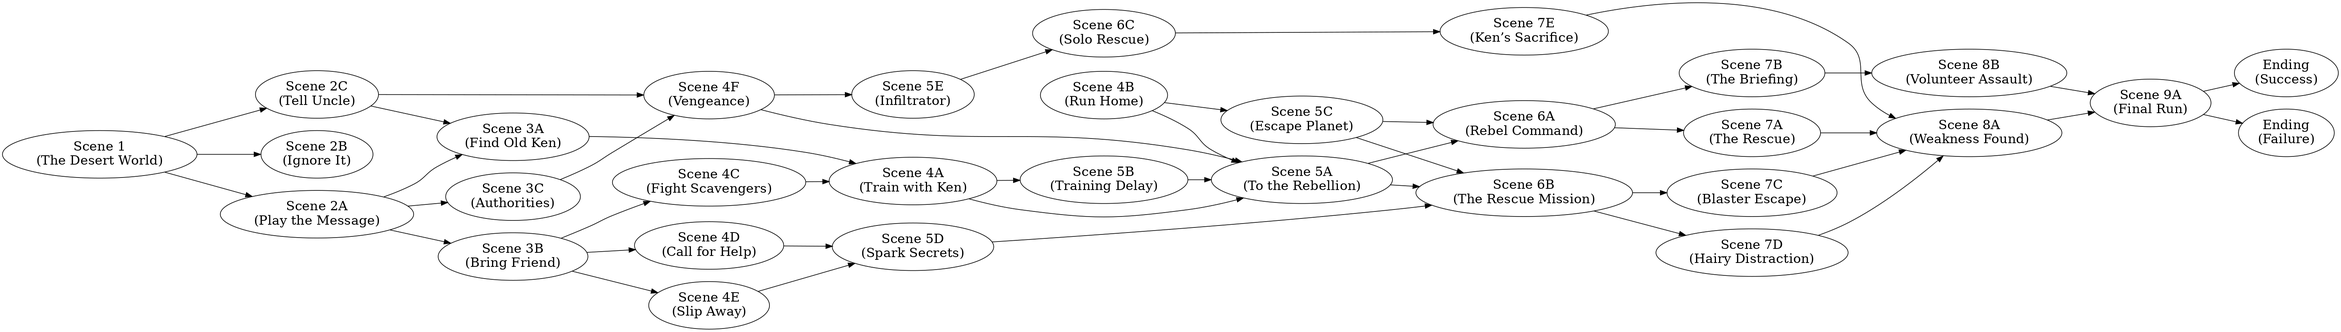
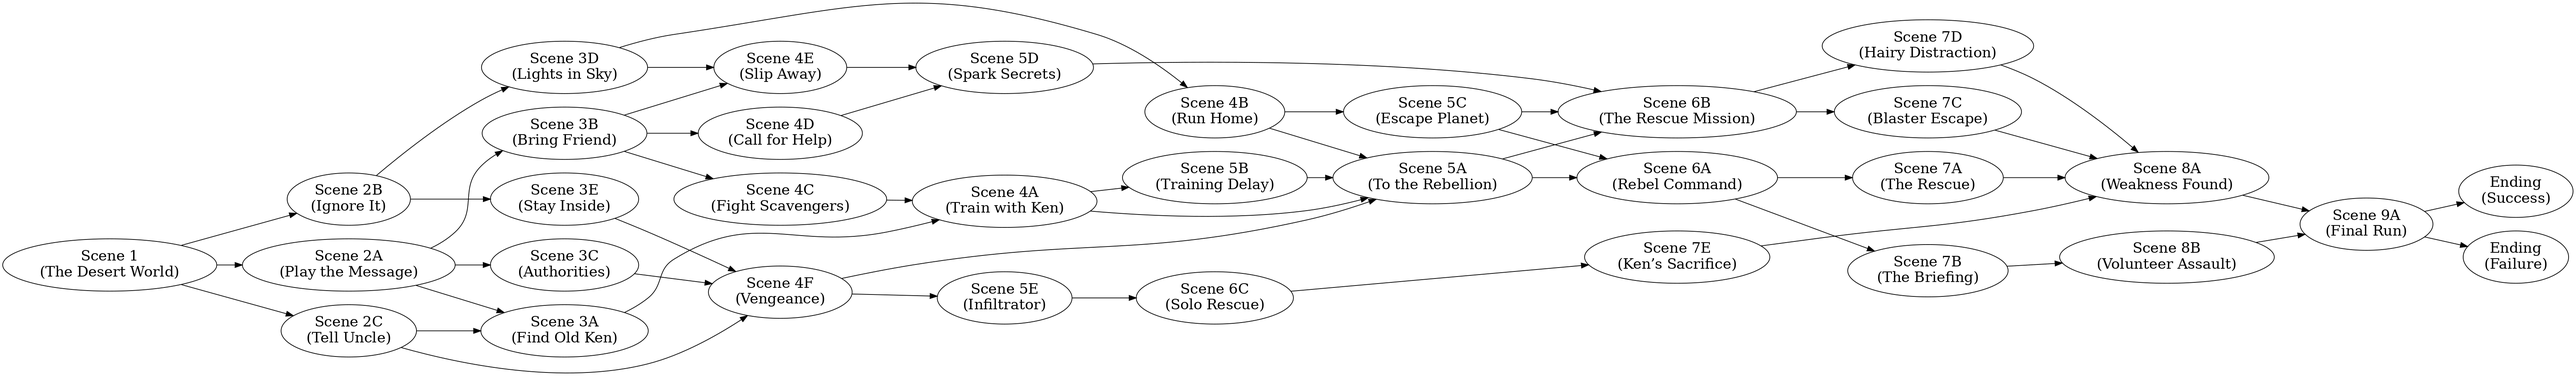
:bug: fixed missing scenes and updated flowchart

diff --git a/space-battles/scene3D.md b/space-battles/scene3D.md
@@ -1,0 +1,16 @@
+
+# 🌠 Scene 3D: Lights in the Sky
+
+You sneak out that night and climb a nearby ridge. In the distance, streaks of fire dance across the sky — something just crash-landed in the canyon.
+
+As you get closer, you find a smoldering escape pod. The droid is gone.
+
+But you do find part of a broken recording:
+
+> “...Old Ken... the plans… must not fall into...”
+
+Suddenly, a shadow looms behind you — a cloaked scavenger!
+
+- 🏃 [Run back to your farm as fast as you can](../space-battles/scene4B.md)
+
+- 🧭 [Follow the scavenger and try to find the droid](../space-battles/scene4E.md)

diff --git a/space-battles/scene3E.md b/space-battles/scene3E.md
@@ -1,0 +1,14 @@
+
+# 🛏 Scene 3E: Playing It Safe
+
+You stay inside. Whatever's going on, it’s not your problem. You fall asleep watching the twin moons drift overhead.
+
+The next day, you wake to the sound of engines — Dominion ships soaring across the sky.
+
+Your uncle rushes in, panicked. “Pack what you can. Something’s happened in the canyon.”
+
+By nightfall, your homestead is ashes. The Dominion is hunting something — or someone.
+
+> “Maybe I should’ve listened to that message,” you think.
+
+- 🔥 [Swear to find out what really happened](../space-battles/scene4F.md)
